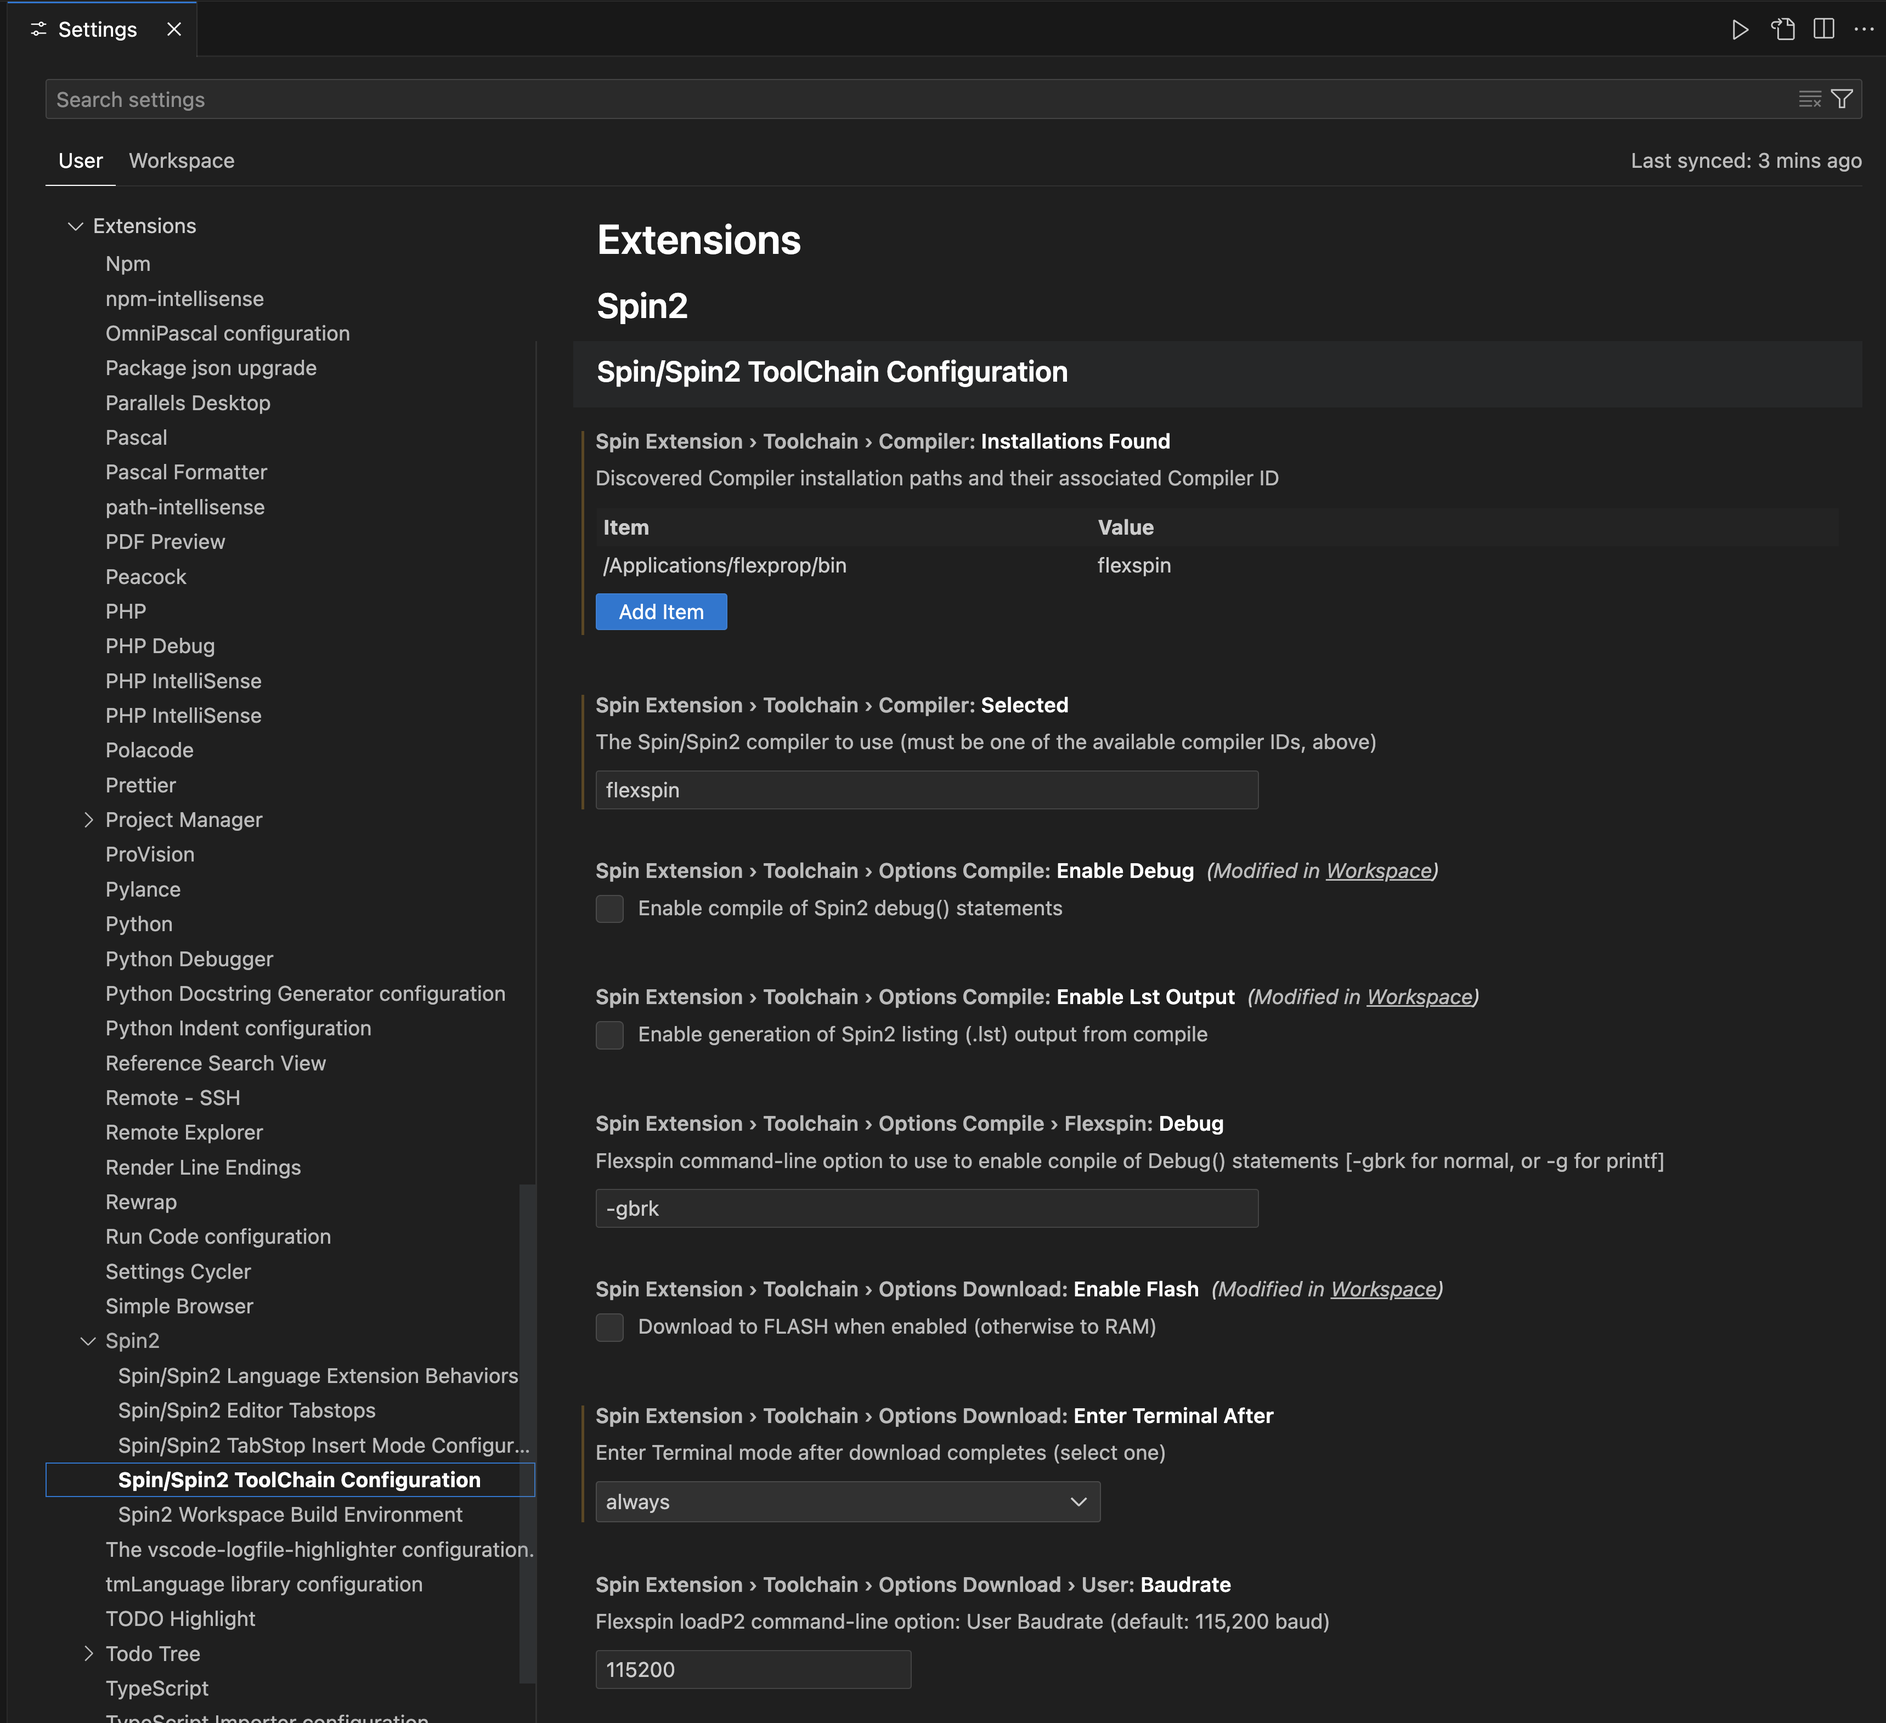
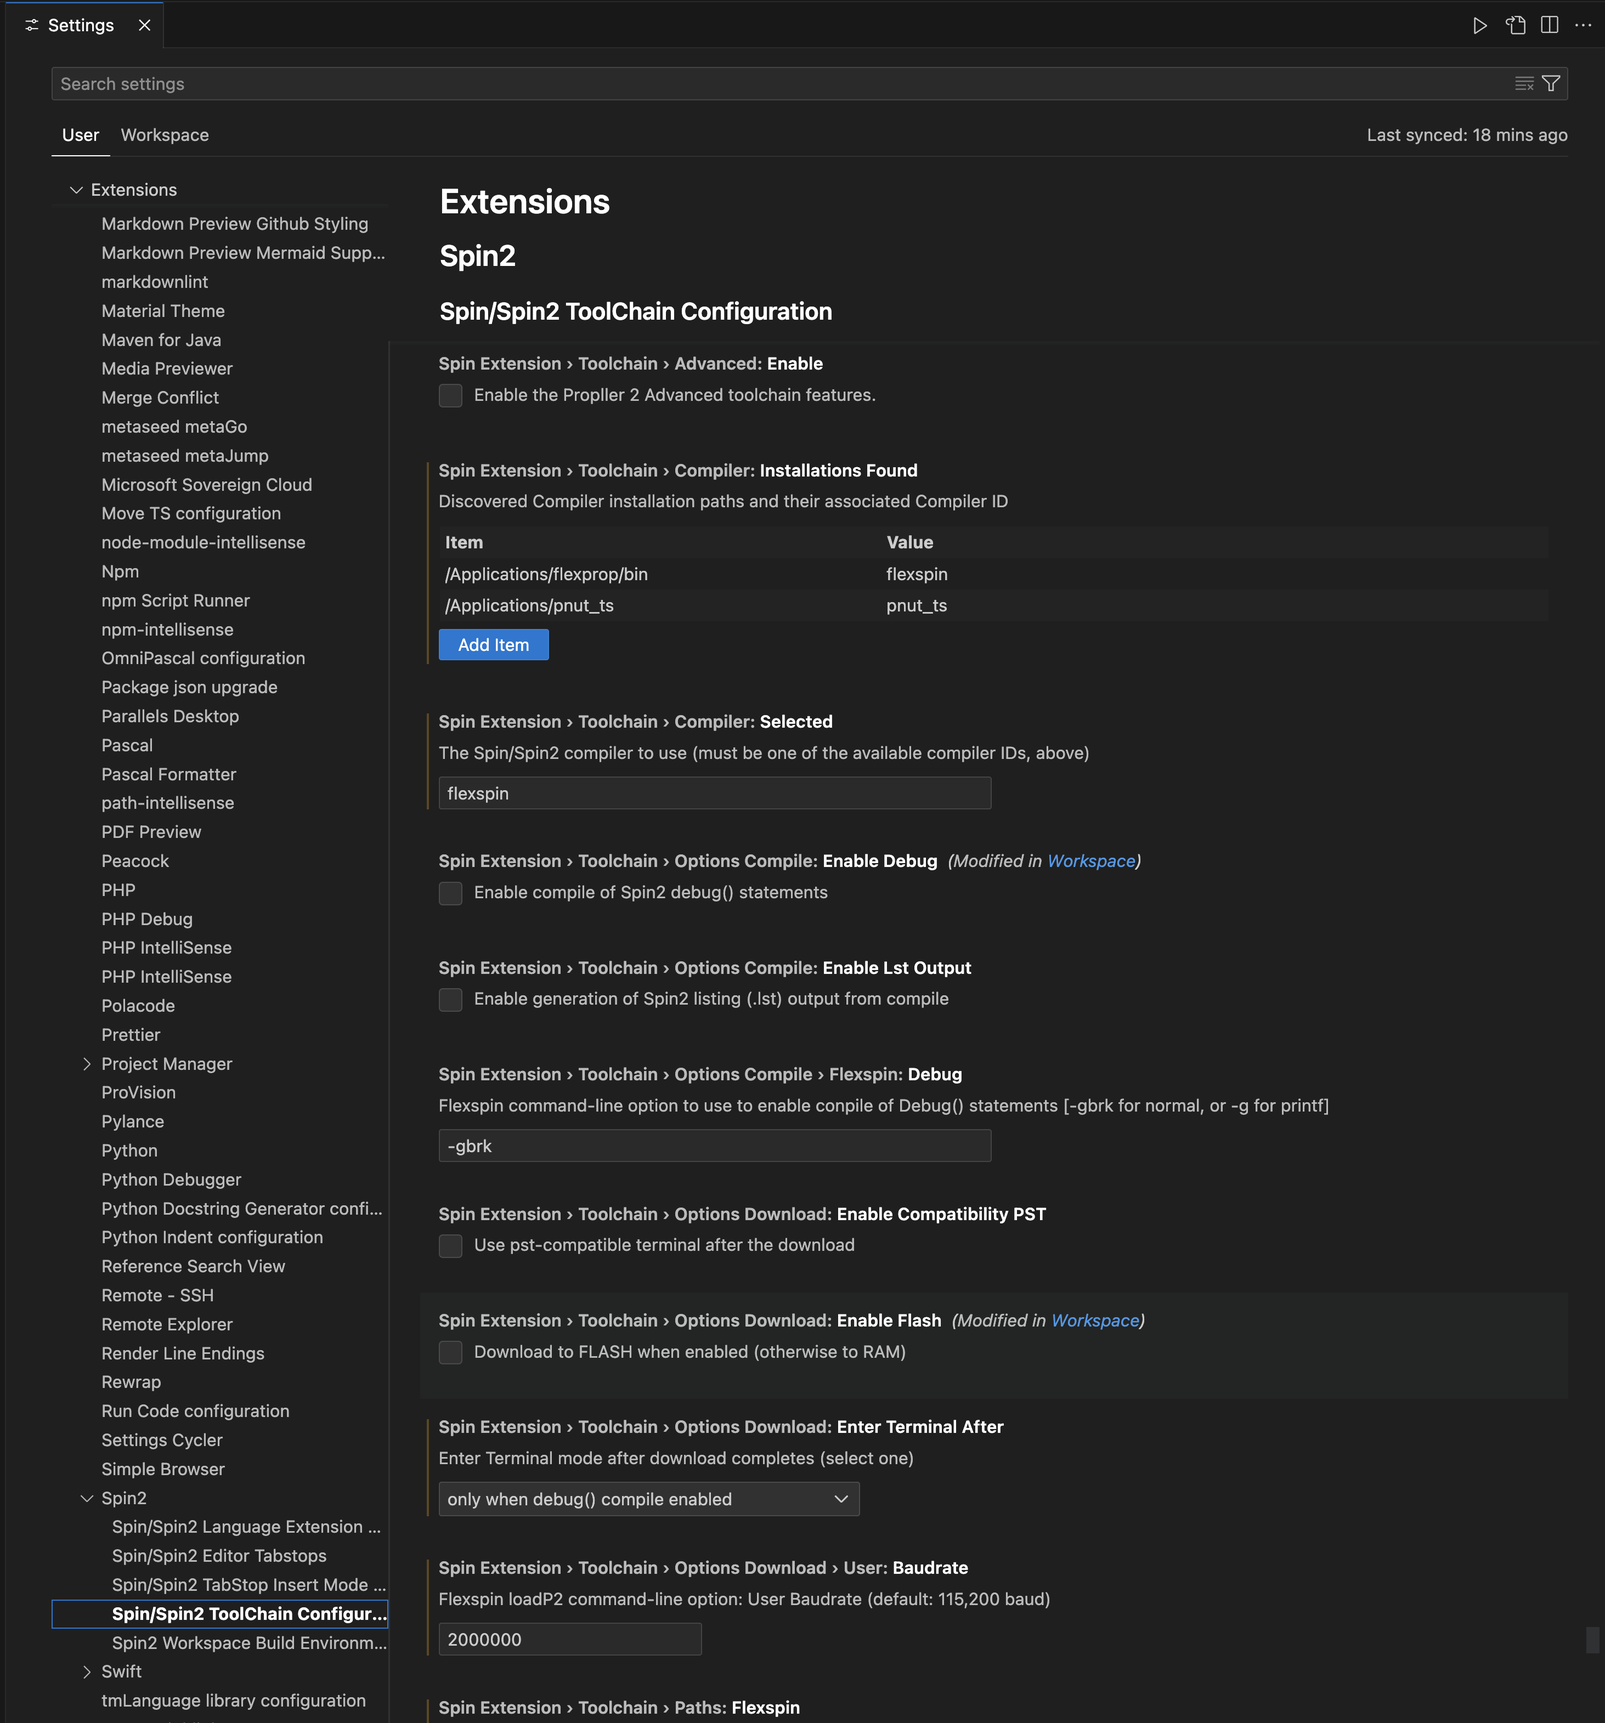
update runtime enable code for toolchain support
- thinking is that disable allows old tasks file to be used...

diff --git a/spin2/client/src/extension.ts b/spin2/client/src/extension.ts
@@ -260,10 +260,10 @@ function registerCommands(context: vscode.ExtensionContext): void {
   // ----------------------------------------------------------------------------
   //   Hook GENERATE list of USB Serial (Proplug) Devices
   //
-  const selectPropPlugFromList: string = 'spinExtension.select.propplug';
+  const selectPropPlugFromListCommand: string = 'spinExtension.select.propplug';
 
   context.subscriptions.push(
-    vscode.commands.registerCommand(selectPropPlugFromList, async function () {
+    vscode.commands.registerCommand(selectPropPlugFromListCommand, async function () {
       logExtensionMessage('CMD: selectPropPlugFromList');
       runtimeSettingChangeInProgress = true;
       await scanForAndRecordPropPlugs(); // load current list into settings
@@ -320,9 +320,9 @@ function registerCommands(context: vscode.ExtensionContext): void {
   // ----------------------------------------------------------------------------
   //   Hook to Return all compile arguments and filename for use in UserTasks
   //
-  const getCompileArgs: string = 'spinExtension.getCompArguments';
+  const getCompileArgsCommand: string = 'spinExtension.getCompilerArguments';
   context.subscriptions.push(
-    vscode.commands.registerCommand(getCompileArgs, () => {
+    vscode.commands.registerCommand(getCompileArgsCommand, () => {
       const optionsBuild = vscode.workspace.getConfiguration('spin2').get('optionsBuild');
       const optionsBuildAr: string[] = Array.isArray(optionsBuild) ? optionsBuild : [optionsBuild];
       const quotedOptionsBuildAr = optionsBuildAr.map((option) => (option.includes(' ') ? `"${option}"` : option));
@@ -333,26 +333,11 @@ function registerCommands(context: vscode.ExtensionContext): void {
   );
 
   // ----------------------------------------------------------------------------
-  //   Hook to Return all compile arguments and filename for use in UserTasks
-  //
-  const getCompileAllArgs: string = 'spinExtension.getCompArgumentsWithFilename';
-  context.subscriptions.push(
-    vscode.commands.registerCommand(getCompileAllArgs, () => {
-      const optionsBuild = vscode.workspace.getConfiguration('spin2').get('optionsBuild');
-      const sourceFilename = getActiveSourceFilename();
-      const optionsBuildAr: string[] = Array.isArray(optionsBuild) ? optionsBuild : [optionsBuild];
-      optionsBuildAr.push(sourceFilename);
-      logExtensionMessage(`CMD: getCompArgumentsWithFilename -> [${optionsBuildAr}]`);
-      return optionsBuildAr;
-    })
-  );
-
-  // ----------------------------------------------------------------------------
   //   Hook to Return all loader arguments and filename for use in UserTasks
   //
-  const getLoaderArgs: string = 'spinExtension.getLoaderArguments';
+  const getLoaderArgsCommand: string = 'spinExtension.getLoaderArguments';
   context.subscriptions.push(
-    vscode.commands.registerCommand(getLoaderArgs, () => {
+    vscode.commands.registerCommand(getLoaderArgsCommand, () => {
       const optionsLoader = vscode.workspace.getConfiguration('spin2').get('optionsLoader');
       const optionsLoaderAr: string[] = Array.isArray(optionsLoader) ? optionsLoader : [optionsLoader];
       const quotedOptionsLoaderAr = optionsLoaderAr.map((option) => (option.includes(' ') ? `"${option}"` : option));
@@ -365,9 +350,9 @@ function registerCommands(context: vscode.ExtensionContext): void {
   // ----------------------------------------------------------------------------
   //   Hook TOGGLE compile w/Debug and update display
   //
-  const toggleCompileWithDebug: string = 'spinExtension.toggle.debug';
+  const toggleCompileWithDebugCommand: string = 'spinExtension.toggle.debug';
   context.subscriptions.push(
-    vscode.commands.registerCommand(toggleCompileWithDebug, async () => {
+    vscode.commands.registerCommand(toggleCompileWithDebugCommand, async () => {
       logExtensionMessage('CMD: toggleCompileWithDebug');
       try {
         runtimeSettingChangeInProgress = true;
@@ -387,10 +372,10 @@ function registerCommands(context: vscode.ExtensionContext): void {
   // ----------------------------------------------------------------------------
   //   Hook TOGGLE download to FLASH and update display
   //
-  const toggleDownloadToFlash: string = 'spinExtension.toggle.flash';
+  const toggleDownloadToFlashCommand: string = 'spinExtension.toggle.flash';
 
   context.subscriptions.push(
-    vscode.commands.registerCommand(toggleDownloadToFlash, async () => {
+    vscode.commands.registerCommand(toggleDownloadToFlashCommand, async () => {
       logExtensionMessage('CMD: toggleDownloadToFlash');
       try {
         runtimeSettingChangeInProgress = true;
@@ -410,10 +395,10 @@ function registerCommands(context: vscode.ExtensionContext): void {
   // ----------------------------------------------------------------------------
   //   Hook Compile current .spin2 file
   //
-  const compileCurrentSpin2File: string = 'spinExtension.compile.currfile';
+  const compileCurrentSpin2FileCommand: string = 'spinExtension.compile.currfile';
 
   context.subscriptions.push(
-    vscode.commands.registerCommand(compileCurrentSpin2File, async () => {
+    vscode.commands.registerCommand(compileCurrentSpin2FileCommand, async () => {
       logExtensionMessage('CMD: compileCurrentSpin2File');
       if (await ensureIsGoodCompilerSelection()) {
         const tasks = await vscode.tasks.fetchTasks();
@@ -434,10 +419,10 @@ function registerCommands(context: vscode.ExtensionContext): void {
   // ----------------------------------------------------------------------------
   //   Hook Compile TOP .spin2 file
   //
-  const compileTopSpin2File: string = 'spinExtension.compile.topfile';
+  const compileTopSpin2FileCommand: string = 'spinExtension.compile.topfile';
 
   context.subscriptions.push(
-    vscode.commands.registerCommand(compileTopSpin2File, async () => {
+    vscode.commands.registerCommand(compileTopSpin2FileCommand, async () => {
       // this compile will fall-back to compile current when there is NO 'topLevel' defined!
       const topFilename = toolchainConfiguration.topFilename;
       const taskName = topFilename !== undefined ? 'compileTopP2' : 'compileP2';
@@ -461,12 +446,12 @@ function registerCommands(context: vscode.ExtensionContext): void {
   // ----------------------------------------------------------------------------
   //   Hook Download TOP binary file
   //
-  const downloadTopFile: string = 'spinExtension.download.topfile';
+  const downloadTopFileCommand: string = 'spinExtension.download.topfile';
 
   let downloaderTerminal: vscode.Terminal | undefined = undefined;
 
   context.subscriptions.push(
-    vscode.commands.registerCommand(downloadTopFile, async () => {
+    vscode.commands.registerCommand(downloadTopFileCommand, async () => {
       logExtensionMessage('CMD: downloadTopFile');
       const activeTopFilename: string = getActiveSourceFilename();
       const haveP1Download: boolean = activeTopFilename !== undefined && activeTopFilename.endsWith('.spin');
@@ -477,8 +462,8 @@ function registerCommands(context: vscode.ExtensionContext): void {
         if (selectedCompiler !== undefined) {
           if (selectedCompiler == PATH_PNUT_TS) {
             useInternalDownloader = true;
-          } else if (selectedCompiler == PATH_FLEXSPIN && isMac()) {
-            useInternalDownloader = true;
+            //} else if (selectedCompiler == PATH_FLEXSPIN && isMac()) {
+            //    useInternalDownloader = true;
           }
         }
         if (useInternalDownloader) {
@@ -774,9 +759,15 @@ echo $? >${outputFile}.status
   //*/
 
   // ----------------------------------------------------------------------------
+  //   Set Up our ToolChain enabled state
+  //
+  // post information to out-side world via our CONTEXT at startup
+  vscode.commands.executeCommand('setContext', 'runtime.spin2.toolchain.enabled', toolchainConfiguration.advancedToolChainEnabled);
+
+  // ----------------------------------------------------------------------------
   //   Set Up our TAB Formatting
   //
-  // post information to out-side world via our CONTEXT
+  // post information to out-side world via our CONTEXT at startup
   vscode.commands.executeCommand('setContext', 'runtime.spin2.elasticTabstops.enabled', tabFormatter.isEnabled());
 
   // ----------------------------------------------------------------------------
@@ -1026,10 +1017,10 @@ async function locateTools(): Promise<void> {
   if (isWindows()) {
     const envDirs = envPath.split(':').filter(Boolean);
     // C:\Program Files (x86)\Parallax Inc\PNut
-    // C:\Program Files (x86)\IronSheepProductionsLLC\pnut_ts
-    //  C:\Programs\TotalSpectrum\flexprop
+    // C:\Programs\IronSheepProductions\pnut_ts
+    // C:\Programs\TotalSpectrum\flexprop
     const appFlexProp = path.join(`${path.sep}Programs`, 'TotalSpectrum', 'flexprop', 'bin');
-    const appPNutTS = path.join(`${path.sep}Program Files (x86)`, 'IronSheepProductionsLLC', 'pnut_ts');
+    const appPNutTS = path.join(`${path.sep}Programs`, 'IronSheepProductions', 'pnut_ts');
     const appParallax = path.join(`${path.sep}Program Files (x86)`, 'Parallax Inc');
     const appPNut = path.join(`${appParallax}`, 'PNut');
     platformPaths = [...envDirs, appParallax, appPNut, appPNutTS, appFlexProp];
@@ -1418,7 +1409,8 @@ function showHideLoaderSBControls(textDocument: vscode.TextDocument) {
     haveCompilerAndDocument = true;
   }
 
-  if (haveCompilerAndDocument) {
+  // advanced toolchain support must be enabled
+  if (haveCompilerAndDocument && toolchainConfiguration.advancedToolChainEnabled) {
     updateStatusBarCompileDebugItem(true);
     updateStatusBarFlashDownloadItem(true);
     updateStatusBarPropPlugItem(true);
@@ -1739,7 +1731,7 @@ async function writeToolchainBinaryFnameVariable(callerID: string, forceUpdate: 
   logExtensionMessage(`* writeToolchainBinFnameVariable(${callerID}), force=(${forceUpdate}${overrideFSpec}) - EXIT`);
 }
 
-const useProploaderForP2: boolean = false;
+const useProploaderForP2: boolean = true; // WARNING (REMOVE BEFORE FLIGHT) Ensure is desired value
 const useLoaderInFilename: boolean = false;
 
 async function writeToolchainBuildVariables(callerID: string, forceUpdate?: boolean, currFspec?: string): Promise<void> {
@@ -1839,7 +1831,7 @@ async function writeToolchainBuildVariables(callerID: string, forceUpdate?: bool
     let loaderSglLtrOptions: string = '-v'; // verbose for time being....
     if (haveP2) {
       // setup loadp2/proploader arguments for P2 download
-      if (!useProploaderForP2) {
+      if (useProploaderForP2 == false) {
         // Load P2 using: loadp2{.mac|.exe}
         if (enterTerminalAfter) {
           loaderSglLtrOptions = loaderSglLtrOptions.concat(termType);

diff --git a/spin2/client/src/providers/spin.toolChain.configuration.ts b/spin2/client/src/providers/spin.toolChain.configuration.ts
@@ -40,6 +40,7 @@ const loadToolchainConfiguration = () => {
   if (flexspinDebugFlag === undefined) {
     flexspinDebugFlag = '-gbrk'; // default value if no value found
   }
+  const advancedToolChainEnabled: boolean = normalizeBooleanConfigValue(toolchainConfig, 'advanced.enable');
   const lstOutputEnabled: boolean = normalizeBooleanConfigValue(toolchainConfig, 'optionsCompile.enableLstOutput');
   const writeFlashEnabled: boolean = normalizeBooleanConfigValue(toolchainConfig, 'optionsDownload.enableFlash');
   const termIsPstCompatible: boolean = normalizeBooleanConfigValue(toolchainConfig, 'optionsDownload.enableCompatibilityPST');
@@ -94,6 +95,7 @@ const loadToolchainConfiguration = () => {
     selectedCompilerID,
     debugEnabled,
     flexspinDebugFlag,
+    advancedToolChainEnabled,
     lstOutputEnabled,
     writeFlashEnabled,
     termIsPstCompatible,
@@ -140,6 +142,7 @@ export const reloadToolchainConfiguration = () => {
     toolchainConfiguration.selectedCompilerID === newToolchainConfig.selectedCompilerID &&
     toolchainConfiguration.debugEnabled === newToolchainConfig.debugEnabled &&
     toolchainConfiguration.flexspinDebugFlag === newToolchainConfig.flexspinDebugFlag &&
+    toolchainConfiguration.advancedToolChainEnabled === newToolchainConfig.advancedToolChainEnabled &&
     toolchainConfiguration.lstOutputEnabled === newToolchainConfig.lstOutputEnabled &&
     toolchainConfiguration.writeFlashEnabled === newToolchainConfig.writeFlashEnabled &&
     toolchainConfiguration.termIsPstCompatible === newToolchainConfig.termIsPstCompatible &&
@@ -159,6 +162,7 @@ export const reloadToolchainConfiguration = () => {
   toolchainConfiguration.selectedCompilerID = newToolchainConfig.selectedCompilerID;
   toolchainConfiguration.debugEnabled = newToolchainConfig.debugEnabled;
   toolchainConfiguration.flexspinDebugFlag = newToolchainConfig.flexspinDebugFlag;
+  toolchainConfiguration.advancedToolChainEnabled = newToolchainConfig.advancedToolChainEnabled;
   toolchainConfiguration.lstOutputEnabled = newToolchainConfig.lstOutputEnabled;
   toolchainConfiguration.writeFlashEnabled = newToolchainConfig.writeFlashEnabled;
   toolchainConfiguration.termIsPstCompatible = newToolchainConfig.termIsPstCompatible;
@@ -166,6 +170,9 @@ export const reloadToolchainConfiguration = () => {
   toolchainConfiguration.downloadTerminalMode === newToolchainConfig.downloadTerminalMode;
   toolchainConfiguration.enterTerminalAfterDownload === newToolchainConfig.enterTerminalAfterDownload;
   toolchainConfiguration.userBaudrate === newToolchainConfig.userBaudrate;
+
+  // post information to out-side world via our CONTEXT at config change
+  vscode.commands.executeCommand('setContext', 'runtime.spin2.toolchain.enabled', toolchainConfiguration.advancedToolChainEnabled);
 
   return true;
 };

diff --git a/spin2/client/src/providers/spin.tabFormatter.configuration.ts b/spin2/client/src/providers/spin.tabFormatter.configuration.ts
@@ -68,5 +68,8 @@ export const reloadTabConfiguration = () => {
   // and copy our new tab stops too
   tabConfiguration.blocks = newTabConfiguration.blocks;
 
+  // post information to out-side world via our CONTEXT at config change
+  vscode.commands.executeCommand('setContext', 'runtime.spin2.elasticTabstops.enabled', tabConfiguration.enable);
+
   return true;
 };

diff --git a/Spin2-Settings.md b/Spin2-Settings.md
@@ -48,23 +48,36 @@ Insert Mode Adjustments:
 Click on the 4th section to see:
 
 ![Settings 4 of 5](./DOCs/stgs-toolchain1.png)
-**FIGURE 4**: with the 4th section selected (only showing first group of entries)
+**FIGURE 4**: with the 4th section selected (showing first group of entries)
 
 ToolChain Adjustments:
 
 You will be modifying only a couple of the values in this section. The remainder are determined when VSCode starts or when you interact with status-bar controls. The following are the values you will be periodically adjusting.
 
+- **Enable Advanced Toolchain support** - This enables all of the toolchain behaviors (off by default)
+- **Installations Found** - Lists which compilers were found to be installed on this machine
 - **Selected Compiler** - Choose the compiler you wish to use (set for User/Workspace)
 - **Enable listing output**- Enable/disable .lst file output
+- **Flexspin Debug**- Select between -gbrk and -g
+- **Enable Compatibility PST**- selects which terminal behavior will be used
 - **Enter Terminal After**- select one of [ never, when debug() enabled, or always ]
 - **User Baudrate**- Enter the comms rate for you application serial debug output
-- **Flexspin Debug**- Select between -gbrk and -g
 
 The following are adjusted by clicking on status bar controls:
 
 - **Enable Debug()** - Click on "debug:[ON/off]" StatusBar control
 - **Enable Flash**- Click on "Dnld:[RAM/FLASH]" StatusBar control
-- **Selected PropPlug**- Click on "Plug:..." StatusBar control
+
+![Settings 4 of 5](./DOCs/stgs-toolchain2.png)
+**FIGURE 5**: with the 4th section selected (showing second group of entries)
+
+The 'paths' entries are all runtime configured. **Please do not adjust any of these paths.**
+
+- **Prop Plug: devices found**- lists which prop plugs are plugged into usb ports
+
+The following is adjusted by clicking on status bar controls:
+
+- **Prop Plug: Selected**- Shows which prop plug you are downloading to. Click on "plug:[name, N/A]" StatusBar control to change this.
 
 ## Our Spin/Spin2 VSCode Key Mapping
 
